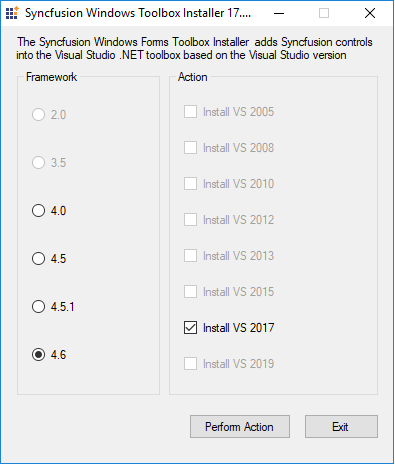
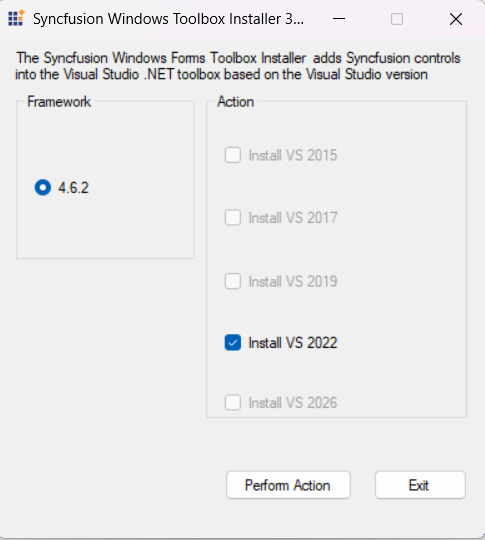
Added Toolbox and VS 2026 changes

diff --git a/WindowsForms/Visual-Studio-Integration/Toolbox-Configuration.md b/WindowsForms/Visual-Studio-Integration/Toolbox-Configuration.md
@@ -41,6 +41,7 @@ Use the following steps to add the Syncfusion® WinForms controls through the Sy
    * Install VS2017 – Configures Framework 4.6.2 Syncfusion controls in VS 2017 toolbox.
    * Install VS2019 – Configures Framework 4.6.2 Syncfusion controls in VS 2019 toolbox.
    * Install VS2022 – Configures Framework 4.6.2 Syncfusion controls in VS 2022 toolbox.
+   * Install VS2026 – Configures Framework 4.6.2 Syncfusion controls in VS 2026 toolbox.
 
     N> You can also configure Syncfusion® controls from a lower version Framework assembly to higher version of Visual Studio.
    
@@ -52,12 +53,16 @@ Use the following steps to add the Syncfusion® WinForms controls through the Sy
    N> * If your installed controls are not reflected properly in the Visual Studio Toolbox, you'll have to reset the Toolbox. 
    * This tool configures only the controls that are located under {Installed Location}\Assemblies\{Framework version}.
    
+## Configuring toolbox for .NET Framework in Visual Studio 2026
+
+Starting with the 2025 Volume 3 SP 2 release, Syncfusion<sup>®</sup> began providing toolbox support for .NET Framework projects in the Visual Studio 2026 Toolbox. After installing the Syncfusion<sup>®</sup> Windows Forms installer, Syncfusion<sup>®</sup> controls will be automatically configured in the Visual Studio 2026 Toolbox for Windows Forms .NET Framework projects.
+
 ## Configuring toolbox for .NET Framework in Visual Studio 2022   
 
 Starting with the 2021 Volume 3 release, Syncfusion<sup>®</sup> began providing toolbox support for .NET Framework projects in the Visual Studio 2022 Toolbox. After installing the Syncfusion<sup>®</sup> Windows Forms installer, Syncfusion<sup>®</sup> controls will be automatically configured in the Visual Studio 2022 Toolbox for Windows Forms .NET Framework projects.
 
-## Configuring toolbox for Windows Forms .NET 8.0\9.0 projects from NuGet packages
+## Configuring toolbox for Windows Forms .NET 8.0\9.0\10.0 projects from NuGet packages
 
-Starting with the 2021 Volume 3 release, Syncfusion<sup>®</sup> introduced toolbox support for Windows Forms .NET 8.0 and 9.0 projects. To enable Syncfusion<sup>®</sup> WinForms controls in the .NET 8.0/9.0 Toolbox, install the corresponding Syncfusion<sup>®</sup> WinForms NuGet packages in your project. Once the packages are installed, the controls will automatically appear in the Visual Studio Toolbox for .NET 8.0/9.0 WinForms projects.
+Starting with the 2025 Volume 3 SP 2 release, Syncfusion<sup>®</sup> introduced toolbox support for Windows Forms .NET 8.0 , 9.0 and 10.0 projects. To enable Syncfusion<sup>®</sup> WinForms controls in the .NET 8.0/9.0/10.0 Toolbox, install the corresponding Syncfusion<sup>®</sup> WinForms NuGet packages in your project. Once the packages are installed, the controls will automatically appear in the Visual Studio Toolbox for .NET 8.0/9.0/10.0 WinForms projects.
 
 Refer [this](https://help.syncfusion.com/windowsforms/add-syncfusion-controls) documentation link to find Syncfusion® WinForms nuget packages for the appropriate controls.
